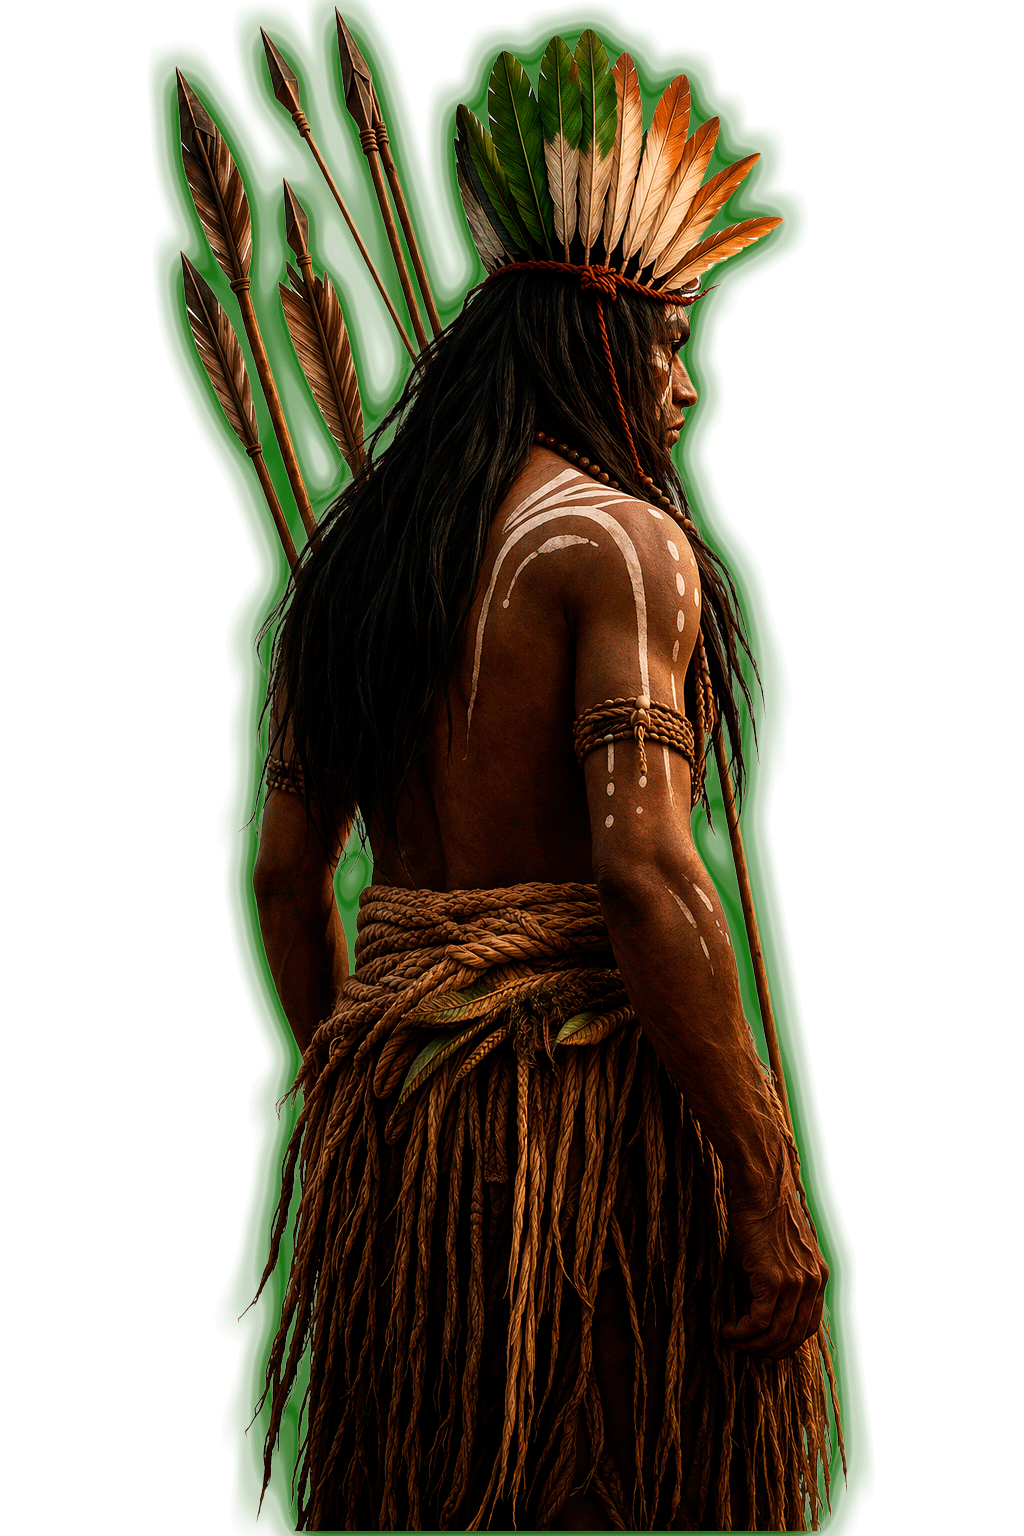
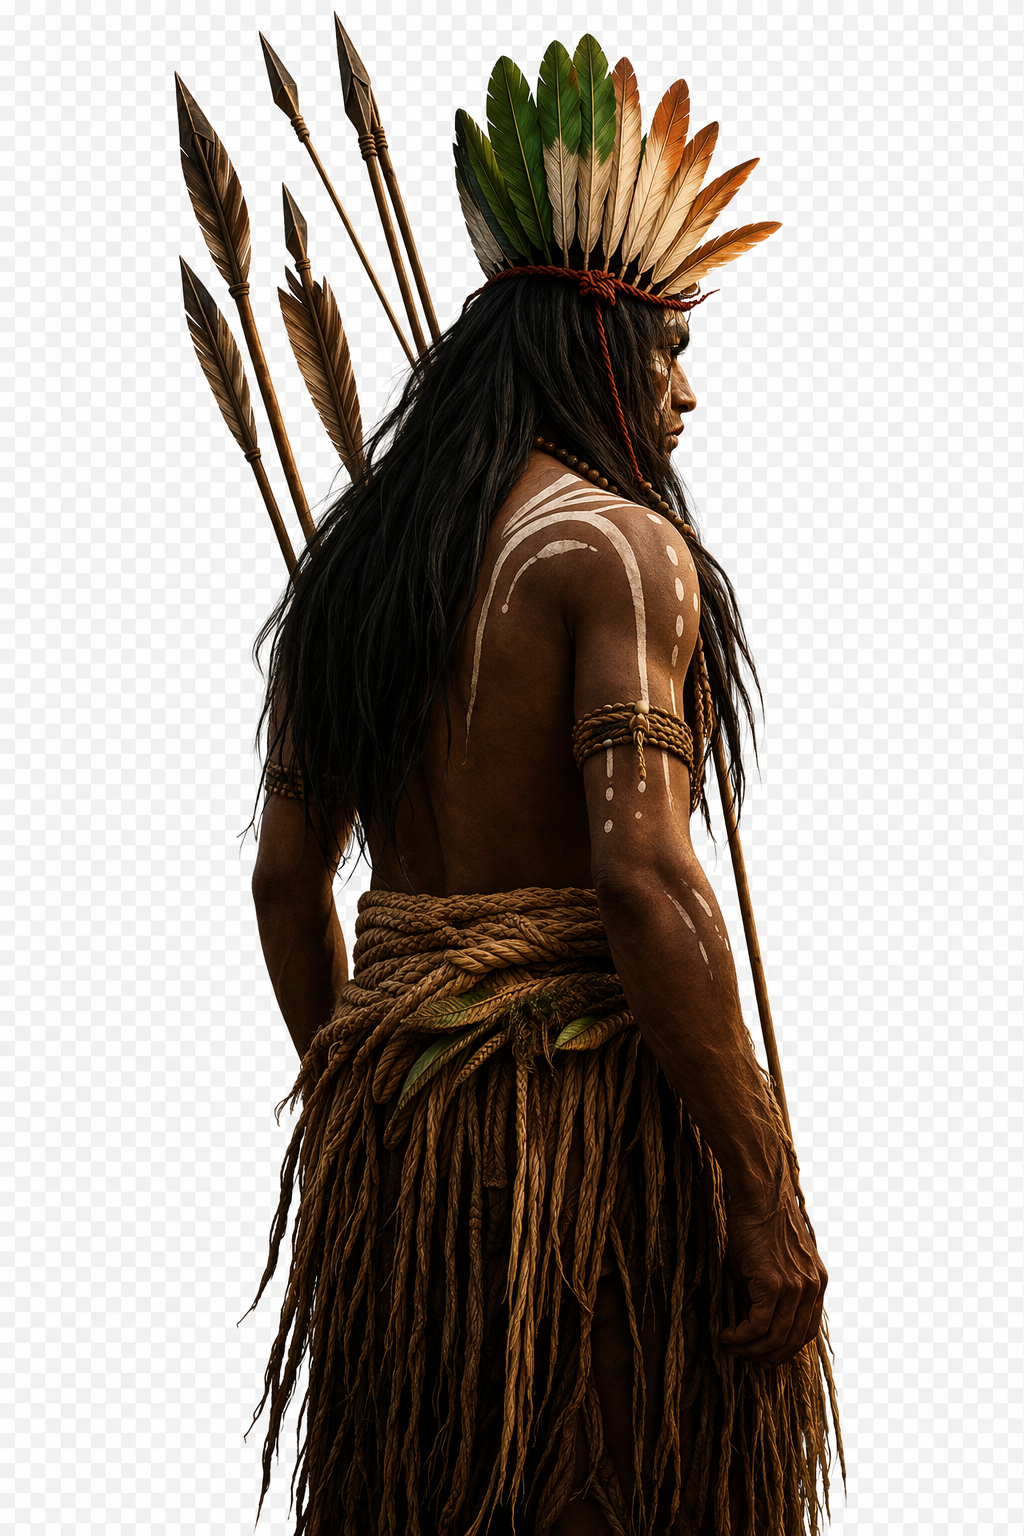
Add files via upload

Changed region(s): [[0.125, 0.0, 0.8438, 1.0], [0.4375, 0.4375, 0.4688, 0.4688]]

diff --git a/index.html b/index.html
@@ -188,75 +188,137 @@
       display: flex; flex-direction: column;
       justify-content: center;
       overflow: hidden;
+      isolation: isolate;
     }
+    /* Caboclo full-bleed no lado direito */
+    .hero-figura {
+      position: absolute;
+      top: 76px; right: 0; bottom: 0;
+      width: min(58%, 880px);
+      z-index: 1;
+      pointer-events: none;
+      overflow: hidden;
+    }
+    .hero-figura img {
+      position: absolute;
+      bottom: 0; right: -4%;
+      height: 100%;
+      width: auto;
+      max-width: none;
+      object-fit: contain;
+      object-position: right bottom;
+      filter:
+        contrast(1.12) saturate(.78) brightness(.92)
+        drop-shadow(-30px 0 80px rgba(7,20,12,.6));
+      /* fade edges into the dark mata */
+      -webkit-mask-image:
+        linear-gradient(90deg, transparent 0%, #000 24%, #000 100%),
+        linear-gradient(180deg, transparent 0%, #000 12%, #000 80%, transparent 100%);
+      mask-image:
+        linear-gradient(90deg, transparent 0%, #000 24%, #000 100%),
+        linear-gradient(180deg, transparent 0%, #000 12%, #000 80%, transparent 100%);
+      -webkit-mask-composite: source-in;
+      mask-composite: intersect;
+      opacity: 0;
+      animation: figIn 1.6s .2s cubic-bezier(.16,.7,.3,1) forwards;
+    }
+    /* Tinta verde sutil no caboclo pra integrar na paleta */
+    .hero-figura::after {
+      content: '';
+      position: absolute; inset: 0;
+      background:
+        radial-gradient(ellipse 70% 60% at 70% 50%, rgba(61,255,144,.10), transparent 60%),
+        linear-gradient(90deg, var(--bg) 0%, rgba(7,20,12,.85) 12%, rgba(7,20,12,.2) 30%, transparent 50%);
+      mix-blend-mode: normal;
+      pointer-events: none;
+      z-index: 2;
+    }
+    /* glow atrás do caboclo */
+    .hero-figura::before {
+      content: '';
+      position: absolute;
+      right: -10%; bottom: -10%;
+      width: 70%; aspect-ratio: 1;
+      background: radial-gradient(circle, rgba(61,255,144,.16), transparent 60%);
+      pointer-events: none;
+      z-index: 0;
+      animation: pulseGlow 6s infinite ease-in-out;
+    }
+    @keyframes pulseGlow {
+      0%, 100% { opacity: .5; transform: scale(.98); }
+      50%      { opacity: 1;  transform: scale(1.04); }
+    }
+    @keyframes figIn {
+      from { opacity: 0; transform: translateY(30px) scale(1.02); }
+      to   { opacity: 1; transform: translateY(0) scale(1); }
+    }
+
+    /* atmosfera — partículas neon que sobem */
+    .hero-atmos {
+      position: absolute; inset: 0;
+      z-index: 1; pointer-events: none; overflow: hidden;
+    }
+    .hero-atmos span {
+      position: absolute;
+      bottom: -20px;
+      width: 3px; height: 3px;
+      border-radius: 50%;
+      background: var(--neon);
+      box-shadow: 0 0 8px var(--neon);
+      opacity: 0;
+      animation: rise 14s infinite linear;
+    }
+    .hero-atmos span:nth-child(1) { left: 12%; animation-delay: 0s; animation-duration: 18s; }
+    .hero-atmos span:nth-child(2) { left: 28%; animation-delay: 3s; animation-duration: 22s; width: 2px; height: 2px; }
+    .hero-atmos span:nth-child(3) { left: 45%; animation-delay: 6s; animation-duration: 16s; }
+    .hero-atmos span:nth-child(4) { left: 62%; animation-delay: 9s; animation-duration: 20s; width: 2px; height: 2px; }
+    .hero-atmos span:nth-child(5) { left: 78%; animation-delay: 2s; animation-duration: 24s; }
+    .hero-atmos span:nth-child(6) { left: 92%; animation-delay: 5s; animation-duration: 17s; width: 2px; height: 2px; }
+    @keyframes rise {
+      0%   { transform: translateY(0)     scale(.5); opacity: 0; }
+      10%  { opacity: .8; }
+      90%  { opacity: .8; }
+      100% { transform: translateY(-110vh) scale(1.2); opacity: 0; }
+    }
+
+    /* vignette pra dar foco no texto */
     .hero-bgimg {
       position: absolute; inset: 0; z-index: 0;
-      background-image: url('https://matavirgem.org/capa.jpg');
-      background-size: cover; background-position: center 30%;
-      opacity: .16;
-      filter: saturate(.7) contrast(1.1) hue-rotate(-10deg);
-    }
-    .hero-bgimg::after {
-      content:''; position: absolute; inset: 0;
       background:
-        radial-gradient(ellipse 70% 60% at 30% 50%, transparent 0%, var(--bg) 85%),
-        linear-gradient(180deg, var(--bg) 0%, transparent 25%, transparent 75%, var(--bg) 100%);
+        radial-gradient(ellipse 50% 60% at 30% 50%, rgba(18,43,28,.4) 0%, transparent 70%),
+        linear-gradient(90deg, var(--bg) 0%, rgba(7,20,12,.85) 38%, transparent 65%),
+        linear-gradient(180deg, var(--bg) 0%, transparent 30%, transparent 70%, var(--bg) 100%);
     }
-    /* folhagens decorativas */
+    /* folhagens decorativas — só do lado esquerdo, mais sutis */
     .hero-leaves {
-      position: absolute; inset: 0; z-index: 1;
+      position: absolute; inset: 0; z-index: 2;
       pointer-events: none;
       overflow: hidden;
     }
     .hero-leaves .leaf {
       position: absolute;
-      filter: drop-shadow(0 0 20px rgba(61,255,144,.3));
+      filter: drop-shadow(0 0 18px rgba(61,255,144,.25));
       color: var(--neon);
     }
-    .hero-leaves .leaf.l1 { top: 8%;  left: 3%;  width: 130px; opacity: .22; transform: rotate(-22deg); }
-    .hero-leaves .leaf.l2 { top: 16%; right: 4%; width: 100px; opacity: .18; transform: rotate(34deg) scaleX(-1); }
-    .hero-leaves .leaf.l3 { bottom: 18%; left: 6%; width: 80px;  opacity: .18; transform: rotate(14deg); }
-    .hero-leaves .leaf.l4 { bottom: 12%; right: 8%; width: 110px; opacity: .16; transform: rotate(-50deg) scaleX(-1); }
+    .hero-leaves .leaf.l1 { top: 10%; left: 2%;  width: 110px; opacity: .18; transform: rotate(-22deg); }
+    .hero-leaves .leaf.l2 { top: 60%; left: -2%; width: 90px;  opacity: .14; transform: rotate(34deg); }
+    .hero-leaves .leaf.l3 { display: none; }
+    .hero-leaves .leaf.l4 { display: none; }
 
     .hero-content {
-      position: relative; z-index: 2;
+      position: relative; z-index: 3;
       max-width: 1340px; width: 100%;
       margin: 0 auto;
-      padding: 3.5rem 2.4rem 4rem;
+      padding: 3rem 2.4rem 3.5rem;
       display: grid;
-      grid-template-columns: minmax(0, 1.15fr) minmax(0, 1fr);
+      grid-template-columns: minmax(0, 1fr) minmax(0, 1fr);
       gap: 3rem;
       align-items: center;
+      min-height: calc(100vh - 76px);
     }
     .hero-text {
       text-align: left;
-      max-width: 600px;
-    }
-    .hero-figura {
-      position: relative;
-      height: 100%;
-      min-height: 540px;
-      display: flex; align-items: flex-end; justify-content: center;
-    }
-    .hero-figura::before {
-      content:''; position: absolute;
-      left: 50%; bottom: 0;
-      width: 90%; height: 90%;
-      transform: translateX(-50%);
-      background: radial-gradient(ellipse at 50% 40%, rgba(61,255,144,.18), transparent 65%);
-      pointer-events: none;
-    }
-    .hero-figura img {
-      position: relative; z-index: 1;
-      max-height: 78vh; max-width: 100%;
-      width: auto; height: 100%;
-      object-fit: contain; object-position: center bottom;
-      filter: drop-shadow(0 0 50px rgba(61,255,144,.22)) saturate(1.05) brightness(.97);
-      opacity: 0; animation: figIn 1.4s .15s cubic-bezier(.16,.7,.3,1) forwards;
-    }
-    @keyframes figIn {
-      from { opacity: 0; transform: translateY(40px) scale(.97); }
-      to   { opacity: 1; transform: translateY(0) scale(1); }
+      max-width: 580px;
     }
 
     .hero-emblem {
@@ -1128,15 +1190,34 @@
       .pv-grid, .local-info { grid-template-columns: 1fr 1fr; }
       .foot-top { grid-template-columns: 1fr 1fr; }
 
-      /* hero stacks on tablet */
-      .hero-content { grid-template-columns: 1fr; gap: 1.5rem; padding: 2.4rem 2rem 3rem; }
+      .hero-content { grid-template-columns: 1fr; gap: 1.5rem; padding: 3rem 2rem 3rem; min-height: auto; }
       .hero-text { margin: 0 auto; text-align: center; max-width: 640px; }
       .hero-emblem { margin-left: auto; margin-right: auto; }
       .hero-sub { margin-left: auto; margin-right: auto; }
       .hero-btns { justify-content: center; }
       .proxima-hero { margin-left: auto; margin-right: auto; }
-      .hero-figura { min-height: 380px; max-height: 50vh; order: -1; }
-      .hero-figura img { max-height: 50vh; }
+      /* caboclo vira atmosfera de fundo, ocupando seção inteira */
+      .hero-figura {
+        top: 76px; right: 0; left: 0;
+        width: 100%;
+        opacity: .38;
+      }
+      .hero-figura img {
+        right: -10%;
+        height: 100%;
+        filter: contrast(1.15) saturate(.6) brightness(.82)
+                drop-shadow(0 0 60px rgba(7,20,12,.7));
+        -webkit-mask-image:
+          linear-gradient(180deg, transparent 0%, #000 18%, #000 75%, transparent 100%),
+          linear-gradient(90deg, transparent 0%, #000 18%, #000 82%, transparent 100%);
+        mask-image:
+          linear-gradient(180deg, transparent 0%, #000 18%, #000 75%, transparent 100%),
+          linear-gradient(90deg, transparent 0%, #000 18%, #000 82%, transparent 100%);
+      }
+      .hero-figura::after {
+        background:
+          linear-gradient(180deg, var(--bg) 0%, rgba(7,20,12,.7) 30%, rgba(7,20,12,.6) 70%, var(--bg) 100%);
+      }
       .hero-redes { left: 50%; transform: translateX(-50%); bottom: 1.2rem; }
       .scroll-hint { display: none; }
 
@@ -1146,11 +1227,11 @@
     }
     @media (max-width: 768px) {
       nav { padding: 0 1.2rem; }
-      .hero-content { padding: 2rem 1.2rem 2.8rem; gap: 1rem; }
+      .hero-content { padding: 2.2rem 1.2rem 2.8rem; gap: 1rem; }
       .hero-emblem { width: 72px; height: 72px; margin-bottom: 1.2rem; }
       .hero-emblem img { width: 52px; height: 52px; }
-      .hero-figura { min-height: 320px; max-height: 42vh; }
-      .hero-figura img { max-height: 42vh; }
+      .hero-figura { opacity: .28; }
+      .hero-figura img { right: -15%; }
       .proxima-hero { flex-direction: column; align-items: flex-start; gap: .6rem; padding: 1.2rem 1.4rem; max-width: 100%; }
       .hero-redes { display: none; }
 
@@ -1225,11 +1306,19 @@
   <!-- ════ HERO ════ -->
   <section id="hero">
     <div class="hero-bgimg"></div>
+
+    <div class="hero-figura">
+      <img src="caboclo.png" alt="Caboclo de Mata Virgem"/>
+    </div>
+
+    <div class="hero-atmos">
+      <span></span><span></span><span></span>
+      <span></span><span></span><span></span>
+    </div>
+
     <div class="hero-leaves">
       <svg class="leaf l1" viewBox="0 0 100 100" fill="none" stroke="currentColor" stroke-width="1"><path d="M50 5 C 25 25, 25 50, 50 95 C 75 50, 75 25, 50 5 Z M50 5 L50 95"/></svg>
       <svg class="leaf l2" viewBox="0 0 100 100" fill="none" stroke="currentColor" stroke-width="1"><path d="M50 5 C 25 25, 25 50, 50 95 C 75 50, 75 25, 50 5 Z M50 5 L50 95"/></svg>
-      <svg class="leaf l3" viewBox="0 0 100 100" fill="none" stroke="currentColor" stroke-width="1"><path d="M50 5 C 25 25, 25 50, 50 95 C 75 50, 75 25, 50 5 Z M50 5 L50 95"/></svg>
-      <svg class="leaf l4" viewBox="0 0 100 100" fill="none" stroke="currentColor" stroke-width="1"><path d="M50 5 C 25 25, 25 50, 50 95 C 75 50, 75 25, 50 5 Z M50 5 L50 95"/></svg>
     </div>
 
     <div class="hero-content">
@@ -1249,7 +1338,7 @@
           <span class="sub">de Mata Virgem</span>
         </h1>
 
-        <p class="hero-sub">Um terreiro vivo, onde os encantados da mata se manifestam em gira, em estudo, em encontro. Aqui se aprende a escutar o  e a respeitar a jurema.</p>
+        <p class="hero-sub">Um terreiro vivo, onde os encantados da mata se manifestam em gira, em estudo, em encontro. Aqui se aprende a escutar o caboclo e a respeitar a jurema.</p>
 
         <div class="hero-btns">
           <a class="btn-sol" href="#agenda">Ver próximas giras →</a>
@@ -1259,10 +1348,6 @@
         <div class="proxima-hero" id="proximaHeroCard">
           <!-- Preenchido por JS -->
         </div>
-      </div>
-
-      <div class="hero-figura">
-        <img src="caboclo.png" alt="Caboclo de Mata Virgem"/>
       </div>
     </div>
 
